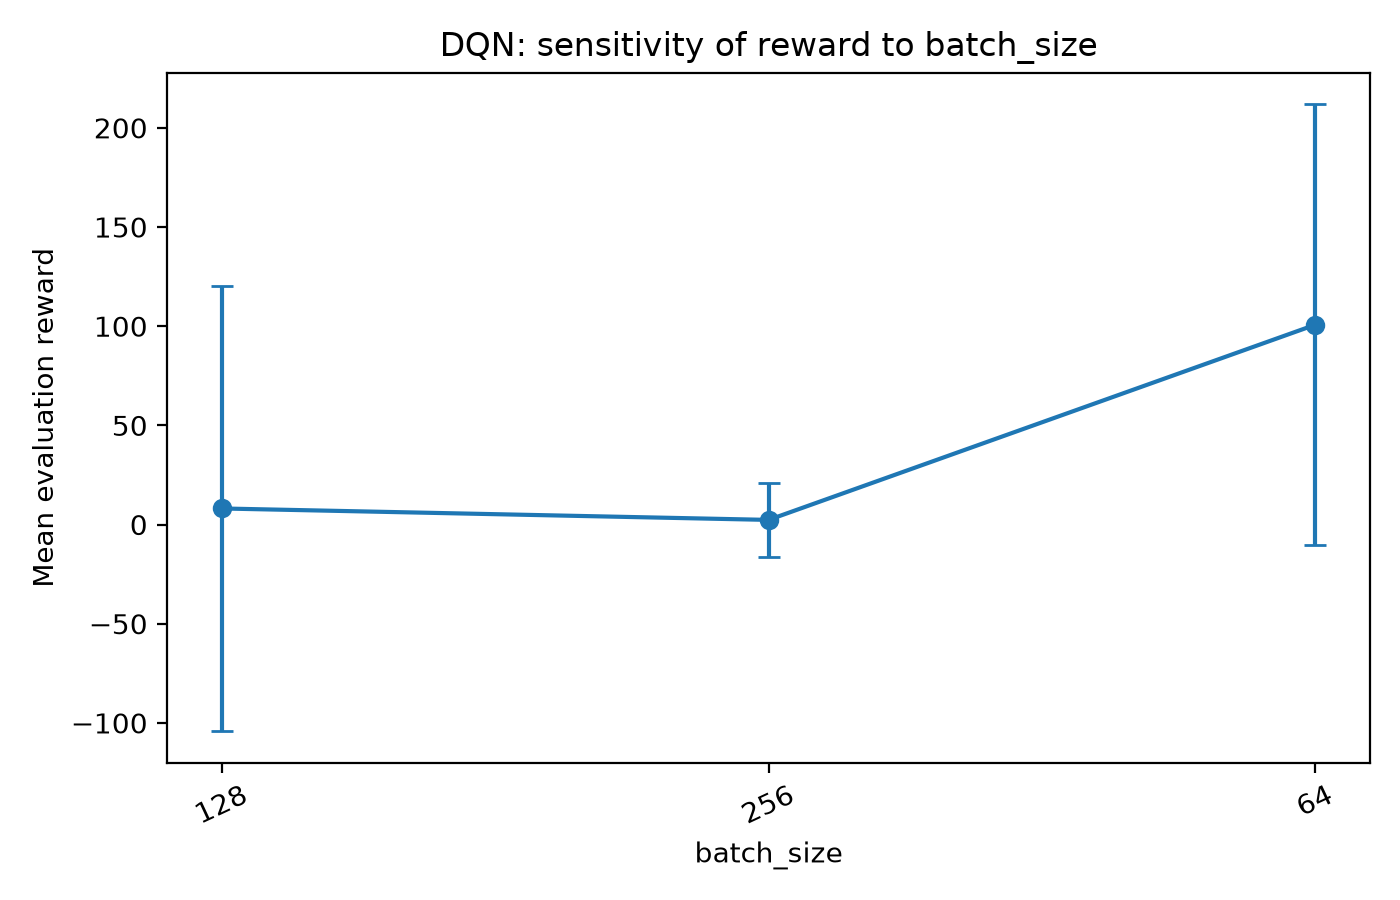
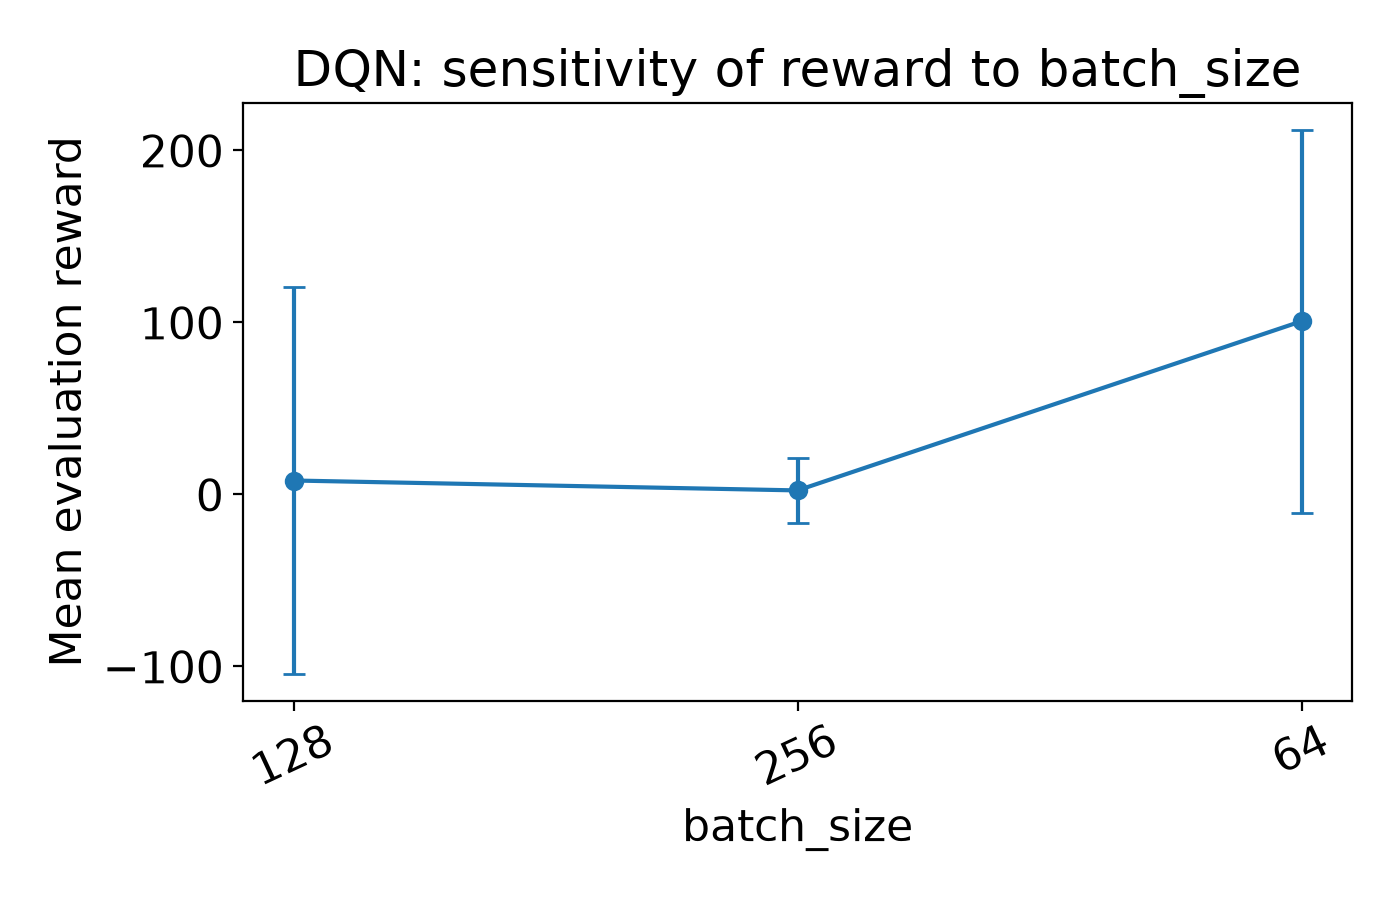
created more plots and made text bigger

diff --git a/07_plot_results.py b/07_plot_results.py
@@ -8,9 +8,24 @@ import pandas as pd
 from config import FIGURES_DIR, LOGS_DIR, RESULTS_DIR
 from core import load_monitor_rewards
 
+# Plot formatting for report readability
+TITLE_SIZE = 18
+LABEL_SIZE = 16
+TICK_SIZE = 16
+LEGEND_SIZE = 14
+
+plt.rcParams.update({
+    "font.size": TICK_SIZE,
+    "axes.titlesize": TITLE_SIZE,
+    "axes.labelsize": LABEL_SIZE,
+    "xtick.labelsize": TICK_SIZE,
+    "ytick.labelsize": TICK_SIZE,
+    "legend.fontsize": LEGEND_SIZE,
+})
+
 
 def save_bar(df, x, y, title, ylabel, filename, hue=None):
-    plt.figure(figsize=(8, 4.5))
+    plt.figure(figsize=(10,6))
     if hue is None:
         plt.bar(df[x].astype(str), df[y])
     else:
@@ -47,7 +62,7 @@ def baseline_learning_curves():
         plt.figure()
         plt.plot(df["episode"], df["reward"], alpha=0.35, label="Episode reward")
         plt.plot(df["episode"], df["moving_average_reward"], label="20-episode moving average")
-        plt.xlabel("Episode")
+        plt.xlabel("Training episodes")
         plt.ylabel("Reward")
         plt.title(f"Baseline {alg.upper()} learning curve")
         plt.legend()
@@ -94,6 +109,82 @@ def sensitivity_plots():
         print(f"Saved {out}")
 
 
+def sensitivity_report_plots():
+    f = RESULTS_DIR / "sensitivity_summary.csv"
+    if not f.exists():
+        return
+
+    df = pd.read_csv(f)
+
+    report_params = {
+        "DQN": [
+            "learning_rate",
+            "gamma",
+            "exploration_final_eps",
+            "batch_size",
+        ],
+        "PPO": [
+            "learning_rate",
+            "n_steps",
+            "batch_size",
+            "net_arch",
+        ],
+    }
+
+    display_names = {
+        "learning_rate": "Learning Rate",
+        "gamma": "Discount Factor",
+        "exploration_final_eps": "Final Exploration Rate",
+        "batch_size": "Batch Size",
+        "n_steps": "Rollout Length",
+        "net_arch": "Network Architecture",
+    }
+
+    for alg, params in report_params.items():
+
+        fig, axes = plt.subplots(2, 2, figsize=(16, 12))
+        axes = axes.flatten()
+
+        for ax, parameter in zip(axes, params):
+
+            group = df[
+                (df["algorithm"] == alg)
+                & (df["parameter"] == parameter)
+            ].copy()
+
+            group = group.sort_values("value")
+
+            ax.errorbar(
+                group["value"].astype(str),
+                group["mean_reward"],
+                yerr=group[
+                    "reward_std_across_seeds"
+                ].fillna(0.0),
+                marker="o",
+                markersize=10,
+                linewidth=2.5,
+                capsize=6,
+                capthick=2,
+            )
+
+            ax.set_title("")
+            ax.set_xlabel(display_names[parameter], fontsize=26, labelpad=10)
+            ax.set_ylabel("Mean Reward", fontsize=26, labelpad=10)
+            ax.tick_params(axis="both", which="major", labelsize=24)
+            ax.grid(True, alpha=0.3)
+
+        fig.tight_layout(
+            pad=3.0,
+            h_pad=3.0,
+            w_pad=3.0,
+        )
+
+        out = (FIGURES_DIR / f"{alg.lower()}_sensitivity_summary.png")
+        fig.savefig(out, dpi=300, bbox_inches="tight")
+        plt.close(fig)
+        print(f"Saved {out}")
+
+
 def reward_sensitivity_plots():
     f = RESULTS_DIR / "reward_sensitivity_summary.csv"
     if not f.exists():
@@ -101,7 +192,7 @@ def reward_sensitivity_plots():
     df = pd.read_csv(f)
     save_bar(df, "reward_case", "mean_common_reward", "Reward-design sensitivity", "Mean reward", "reward_sensitivity_reward.png", hue="algorithm")
     save_bar(df, "reward_case", "mean_control_use_proxy", "Fuel use under reward shaping", "Mean fuel proxy", "reward_sensitivity_fuel.png", hue="algorithm")
-    save_bar(df, "reward_case", "mean_crash_rate", "Crash rate under reward shaping", "Crash rate", "reward_sensitivity_crash.png", hue="algorithm")
+    save_bar(df, "reward_case", "mean_success_rate", "Reward design vs success rate", "Success rate", "reward_sensitivity_success.png", hue="algorithm")
 
 
 def robustness_plots():
@@ -113,6 +204,48 @@ def robustness_plots():
     save_bar(df, "case", "success_rate", "Success rate under uncertainty", "Success rate", "robustness_success.png", hue="algorithm")
     save_bar(df, "case", "crash_rate", "Crash rate under uncertainty", "Crash rate", "robustness_crash.png", hue="algorithm")
 
+def robustness_noise_plot():
+
+    f = RESULTS_DIR / "robustness_summary.csv"
+    if not f.exists():
+        return
+
+    df = pd.read_csv(f)
+
+    noise_df = df[
+        df["action_dropout_prob"] == 0.0
+    ]
+
+    plt.figure(figsize=(10,6))
+
+    for alg in ["DQN", "PPO"]:
+
+        group = noise_df[
+            noise_df["algorithm"] == alg
+        ].sort_values("obs_noise_std")
+
+        plt.plot(
+            group["obs_noise_std"],
+            group["success_rate"],
+            marker="o",
+            label=alg,
+        )
+
+    plt.xlabel("Observation noise standard deviation")
+    plt.ylabel("Success rate")
+    plt.title("Robustness to sensor noise")
+    plt.legend()
+    plt.grid(True)
+
+    plt.tight_layout()
+
+    plt.savefig(
+        FIGURES_DIR / "robustness_sensor_noise.png",
+        dpi=300,
+        bbox_inches="tight",
+    )
+
+    plt.close()
 
 def curriculum_plots():
     f = RESULTS_DIR / "curriculum_summary.csv"
@@ -124,10 +257,12 @@ def curriculum_plots():
 
 def main():
     baseline_learning_curves()
-    baseline_comparison()
+    #baseline_comparison()
     sensitivity_plots()
+    sensitivity_report_plots()
     reward_sensitivity_plots()
     robustness_plots()
+    robustness_noise_plot()
     curriculum_plots()
     print("Done generating available plots.")
 
